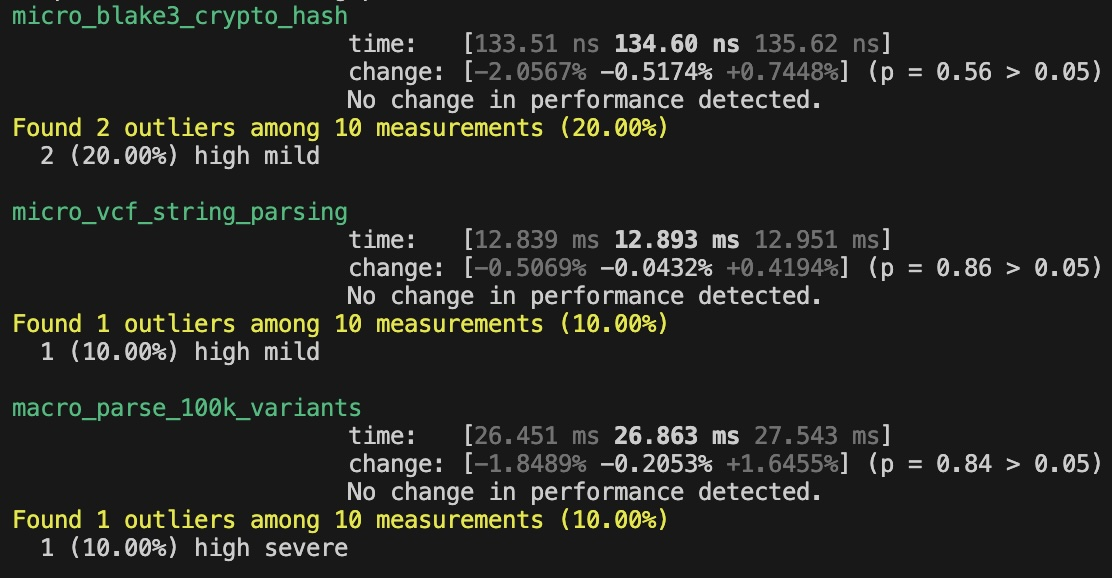
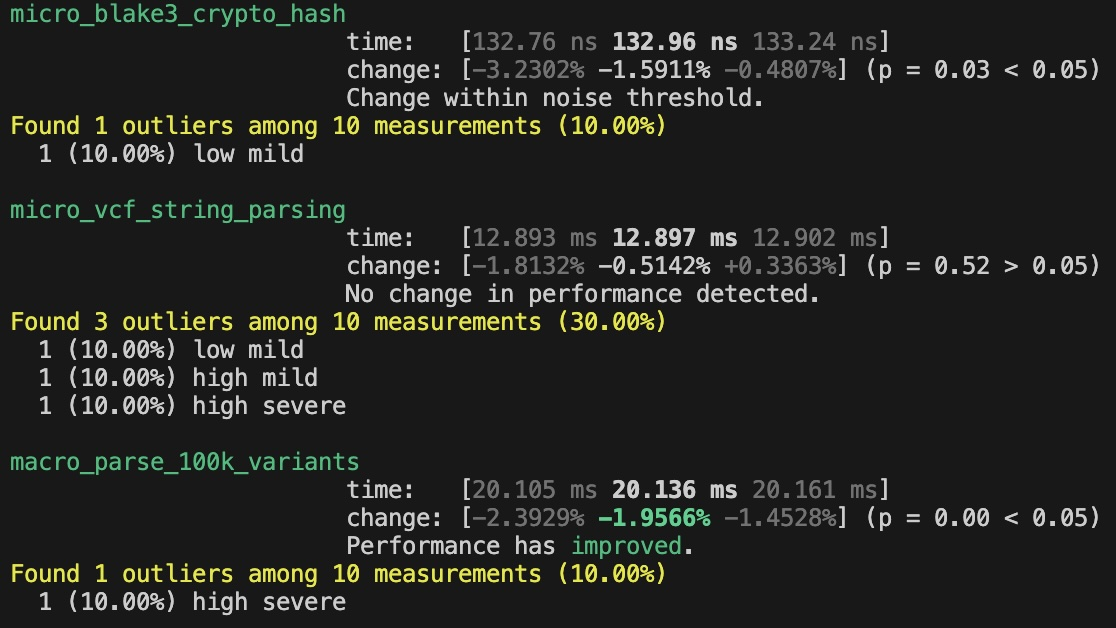
feat: add test for queries, update README, delete parquet.rs (#19)
* docs: add assets, screenshots and flesh out README

* fix(query): parameterize SQL, fix double-query, thread-safe cache, and paginate variantes

* perf(api): offload DuckDB to thread pool via asyncio.to_thread, add /variants limit

* feat(processor): stream VCF-Parquet in 10k-row batches for constant memory usage

* docs: add /alleles load test and update README with accurate perf numbers

* refactor: remove dead parquet module, fix pool config, explicit SELECT columns

* ci(infra): add release build step and fix hardcoded Ansible container name

* docs(assets): update locust and benchmark screenshots

* chore: remove TODO.md

* docs: update benchmark numbers to 2ms p50 / 5ms p95

* docs: update 2ms p50 / 5ms p95 caveat

* update load test screenshots

* test: add query tests

* docs: update README and assets

* chore(processor): delete unused parquet.rs

Changed region(s): [[0.0, 0.0, 1.0, 0.9965]]

diff --git a/enclave/tests/test_query.py b/enclave/tests/test_query.py
@@ -1,0 +1,161 @@
+"""Tests for query.py — exercises real DuckDB against a real Parquet fixture."""
+
+import os
+from unittest.mock import patch
+
+import pyarrow as pa
+import pyarrow.parquet as pq
+import pytest
+from httpx import ASGITransport, AsyncClient
+
+os.environ["NGC_API_KEY"] = "ngc"
+HEADERS = {"Authorization": "Bearer ngc"}
+
+
+@pytest.fixture(scope="module")
+def parquet_path(tmp_path_factory):
+    path = str(tmp_path_factory.mktemp("data") / "test.parquet")
+    pq.write_table(
+        pa.table(
+            {
+                "chrom": ["1", "1", "1", "2", "2", "X"],
+                "pos": pa.array([100, 200, 300, 100, 200, 100], type=pa.int64()),
+                "id": [".", "rs1", ".", ".", "rs2", "."],
+                "reference": ["A", "C", "G", "T", "A", "C"],
+                "alt": ["T", "G", "A", "C", "T", "G"],
+                "sample_id_hash": ["abc"] * 6,
+            }
+        ),
+        path,
+    )
+    return path
+
+
+def clear():
+    from ngc_enclave.query import allele_cache, variant_cache
+
+    variant_cache.clear()
+    allele_cache.clear()
+
+
+# --- Filters ---
+
+
+def test_no_filter_returns_all(parquet_path):
+    from ngc_enclave.query import query_variants
+
+    clear()
+    assert len(query_variants(parquet_path)) == 6
+
+
+def test_chrom_filter(parquet_path):
+    from ngc_enclave.query import query_variants
+
+    clear()
+    results = query_variants(parquet_path, chrom="1")
+    assert len(results) == 3 and all(r["chrom"] == "1" for r in results)
+
+
+def test_pos_range_filter(parquet_path):
+    from ngc_enclave.query import query_variants
+
+    clear()
+    results = query_variants(parquet_path, pos_min=150, pos_max=250)
+    assert all(150 <= r["pos"] <= 250 for r in results)
+
+
+def test_no_match_returns_empty(parquet_path):
+    from ngc_enclave.query import query_variants
+
+    clear()
+    assert query_variants(parquet_path, chrom="MT") == []
+
+
+def test_allele_frequencies(parquet_path):
+    from ngc_enclave.query import query_allele_frequencies
+
+    clear()
+    results = query_allele_frequencies(parquet_path)
+    assert all("frequency" in r and 0.0 <= r["frequency"] <= 1.0 for r in results)
+
+
+# --- Security ---
+
+
+def test_sql_injection_is_safe(parquet_path):
+    from ngc_enclave.query import query_variants
+
+    clear()
+    assert query_variants(parquet_path, chrom="1'; DROP TABLE x; --") == []
+
+
+# --- Limit enforcement (API layer) ---
+
+
+@pytest.mark.asyncio
+@patch("ngc_enclave.main.query_variants", return_value=[])
+@patch("ngc_enclave.main.log_request", return_value=None)
+async def test_default_limit_is_1000(mock_log, mock_q):
+    from ngc_enclave.main import app, verify_api_key
+
+    app.dependency_overrides[verify_api_key] = lambda: "ngc"
+    try:
+        async with AsyncClient(transport=ASGITransport(app=app), base_url="http://test") as c:
+            await c.get("/variants", headers=HEADERS)
+        assert mock_q.call_args.kwargs["limit"] == 1000
+    finally:
+        app.dependency_overrides.clear()
+
+
+@pytest.mark.asyncio
+@patch("ngc_enclave.main.query_variants", return_value=[])
+@patch("ngc_enclave.main.log_request", return_value=None)
+async def test_limit_capped_at_5000(mock_log, mock_q):
+    from ngc_enclave.main import app, verify_api_key
+
+    app.dependency_overrides[verify_api_key] = lambda: "ngc"
+    try:
+        async with AsyncClient(transport=ASGITransport(app=app), base_url="http://test") as c:
+            await c.get("/variants?limit=99999", headers=HEADERS)
+        assert mock_q.call_args.kwargs["limit"] == 5000
+    finally:
+        app.dependency_overrides.clear()
+
+
+# --- Cache ---
+
+
+def test_cache_hit_calls_duckdb_once(parquet_path):
+    from ngc_enclave.query import query_variants
+
+    clear()
+    count = 0
+    orig = __import__("duckdb").connect
+
+    def counting(*a, **kw):
+        nonlocal count
+        count += 1
+        return orig(*a, **kw)
+
+    with patch("duckdb.connect", side_effect=counting):
+        query_variants(parquet_path, chrom="2")
+        query_variants(parquet_path, chrom="2")  # cache hit
+    assert count == 1, f"Expected 1 DuckDB call, got {count}"
+
+
+def test_different_args_miss_cache(parquet_path):
+    from ngc_enclave.query import query_variants
+
+    clear()
+    count = 0
+    orig = __import__("duckdb").connect
+
+    def counting(*a, **kw):
+        nonlocal count
+        count += 1
+        return orig(*a, **kw)
+
+    with patch("duckdb.connect", side_effect=counting):
+        query_variants(parquet_path, chrom="1")
+        query_variants(parquet_path, chrom="2")  # different args → cache miss
+    assert count == 2, f"Expected 2 DuckDB calls, got {count}"

diff --git a/README.md b/README.md
@@ -47,8 +47,15 @@ While inside the Nix shell, the `ngc` command exposes powerful lifecycle hooks:
 | `ngc generate` | Creates a synthetic 100k variant VCF testing file. |
 | `ngc run` | Compiles and runs the Rust Processor against the VCF data. |
 | `ngc serve` | Starts the FastAPI server and opens the SWAGGER documentation. |
+| `ngc deploy` | Deploys the application |
+| `ngc bench` | Runs Rust benchmarks to measure performance. |
+| `ngc profile` | Generates a CPU flamegraph to identify performance bottlenecks. |
 | `ngc test` | Runs the full test suite (Rust unit tests + Python PyTest). |
 | `ngc locust` | Triggers the Locust Load Testing tool for performance analysis. |
+| `ngc polish` | Formats, lints and tests in one go |
+| `ngc query <sql>` | Runs a SQL query against the Parquet data. |
+| `ngc logs` | Shows the audit logs of the application. |
+| `ngc clean` | Removes all artifacts and resets the database. |
 | `ngc help` | Shows all available developer commands. |
 
 ---
@@ -117,7 +124,7 @@ Interactive API documentation (Swagger UI) is auto-generated at `http://localhos
 
 ## 🏎 Performance & Scalability
 
-Our system is rigorously stress-tested at two levels: the low-level data ingestion engine (Rust) and the high-level API enclave (Python).
+Our system is stress-tested at two levels: the low-level data ingestion engine (Rust) and the high-level API enclave (Python).
 
 **Data Ingestion Benchmarks (Rust/Criterion):**
 - **Micro: BLAKE3 Crypto Hash:** `~130 ns` per sample ID.
@@ -138,7 +145,7 @@ Our system is rigorously stress-tested at two levels: the low-level data ingesti
 
 ---
 
-## 📸 Evidence
+## 📸 Screenshots
 
 Here are the latest runtime measurements from our local test environment:
 
